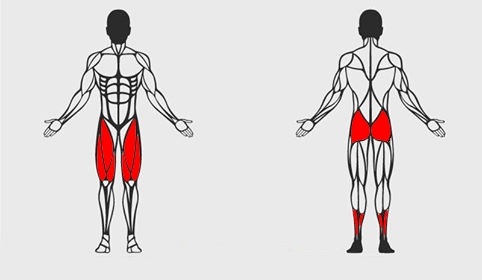
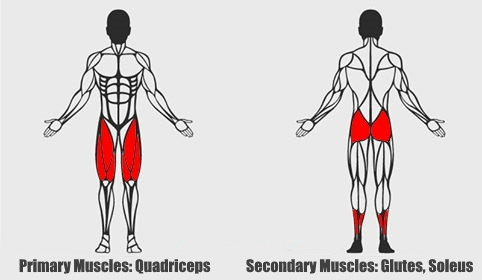
first excer page

Changed region(s): [[0.4979, 0.9143, 0.9959, 0.9714], [0.0311, 0.9143, 0.4357, 0.9714]]

diff --git a/html/lifts/squat.html b/html/lifts/squat.html
@@ -4,7 +4,7 @@
 <head lang="en">
 	<meta charset="utf-8">
 	<title>Beatty Boyz Fitness - Squat</title>
-	<link rel="stylesheet" href="#">
+	<link rel="stylesheet" href="../../css/css_squat.css">
 </head>
 
 <body>
@@ -24,32 +24,32 @@
 
 		<h1>The Squat</h1>
 	<figure>
-		<h2>Muscle Activation Diagram</h2>
+		<h2 class="titl">Muscle Activation Diagram</h2>
 		<div class="pic">
 		  		<img src="../../img/lifts/squat.jpg">
 		  	</div>
-  		<figcaption>Primary Muscles: Quadriceps<br>Secondary Muscles: Glutes, Soleus</figcaption>
+  		
 	</figure>
 
-	<h3>Description</h3>
-	<p class="desc">The squat is an effective excercise for developing lower body strength. Squatting is a compound movement(a movement that
-	utilizes multiple muscle groups) that uses some of the largest muscles in our body which can cause the feeling of fatigue
-	shortly after performing the excercise. While the movement primarily targets the quadriceps the glutes have also been shown to have
-	a large amount of electromyography (EMG) activation during the movement with the soleus playing a primarily balancing role.</p>
+	<h3 class="de">Description</h3>
+	<p class="desc">The squat is an effective excercise for developing lower body strength. Squatting <br> is a compound movement(a movement that
+	utilizes multiple muscle groups) that <br> uses some of the largest muscles in our body which can cause the feeling of fatigue <br>
+	shortly after performing the excercise. While the movement primarily targets the quadriceps <br> the glutes have also been shown to have
+	a large amount of electromyography (EMG) <br> activation during the movement with the soleus playing a primarily balancing role.</p>
 
 
-	<h4>Instructions</h4>
-	<p class="desc1">Step 1: Stand with your feet hip-distance apart and with them facing forward and rest the bar on the back of your shoulders
+	<h4 class="Inst">Instructions</h4>
+	<p class="desc1">Step 1: Stand with your feet hip-distance apart and with them facing forward and rest the bar <br> on the back of your shoulders
 	just above your shoulder blades.<br><br>
 
-	Step 2: Brace your core by taking a deep breath into your diaphragm. Begin the movement at your hips through pushing them behind you in
-	a sitting motion then bend your knees ensuring they travel in the direction that your toes are pointing.<br><br>
+	Step 2: Brace your core by taking a deep breath into your diaphragm. Begin the movement <br> at your hips through pushing them behind you in
+	a sitting motion then bend your knees ensuring <br> they travel in the direction that your toes are pointing.<br><br>
 	
-	Step 3: Travel down until your knees are atleast flexed at a 90 degree angle. If possible travel down to the point that the crease of your hip is
-	below your knees (referred to as breaking parallel). Once at the lowest point in your squat exhale slowly and push your body weight up while making
-	sure to evenly distribute the pressure across your feet.</p>
+	Step 3: Travel down until your knees are atleast flexed at a 90 degree angle. If possible travel down <br> to the point that the crease of your hip is
+	below your knees (referred to as breaking parallel). Once at <br> the lowest point in your squat exhale slowly and push your body weight up while making
+	sure to evenly <br> distribute the pressure across your feet.</p>
 
-	<h5>Demonstration</h5>
+	<h5 class="demo">Demonstration</h5>
 	<div class="gif">
 	<embed src="https://j.gifs.com/r86BvB.gif" width="400" height="400"></embed>
 </div>

diff --git a/css/css_squat.css b/css/css_squat.css
@@ -79,18 +79,63 @@ ul li.active a{
 
 .gif{
   position: fixed;
-  bottom: 10%;
-  left: 70%;
+  bottom: 21%;
+  left: 72%;
 }
 
 .desc{
   position: fixed;
   color: white;
-  bottom: 70%;
+  bottom: 15%;
+  right: 67%;
 }
 
 .pic{
   position: fixed;
-  bottom: 30%;
+  bottom: 33%;
   left: 5%;
+}
+
+.titl{
+  position: fixed;
+  top: 28%;
+  left: 6%;
+  font-size: 35px;
+  color: white;
+
+}
+
+.de{
+  position: fixed;
+  font-size: 35px;
+  color: white;
+  bottom: 27%;
+  right: 78%;
+  color: white;
+}
+
+.Inst{
+  position: fixed;
+  font-size: 35px;
+  color: white;
+  top: 28%;
+  right: 45%;
+  color: white;
+}
+
+.desc1{
+  position: fixed;
+  color: white;
+  top: 37%;
+  left: 35%;
+  color: white;
+}
+
+.demo{
+  position: fixed;
+  font-size: 35px;
+  color: white;
+  top: 28%;
+  right: 11%;
+  color: white;
 }
